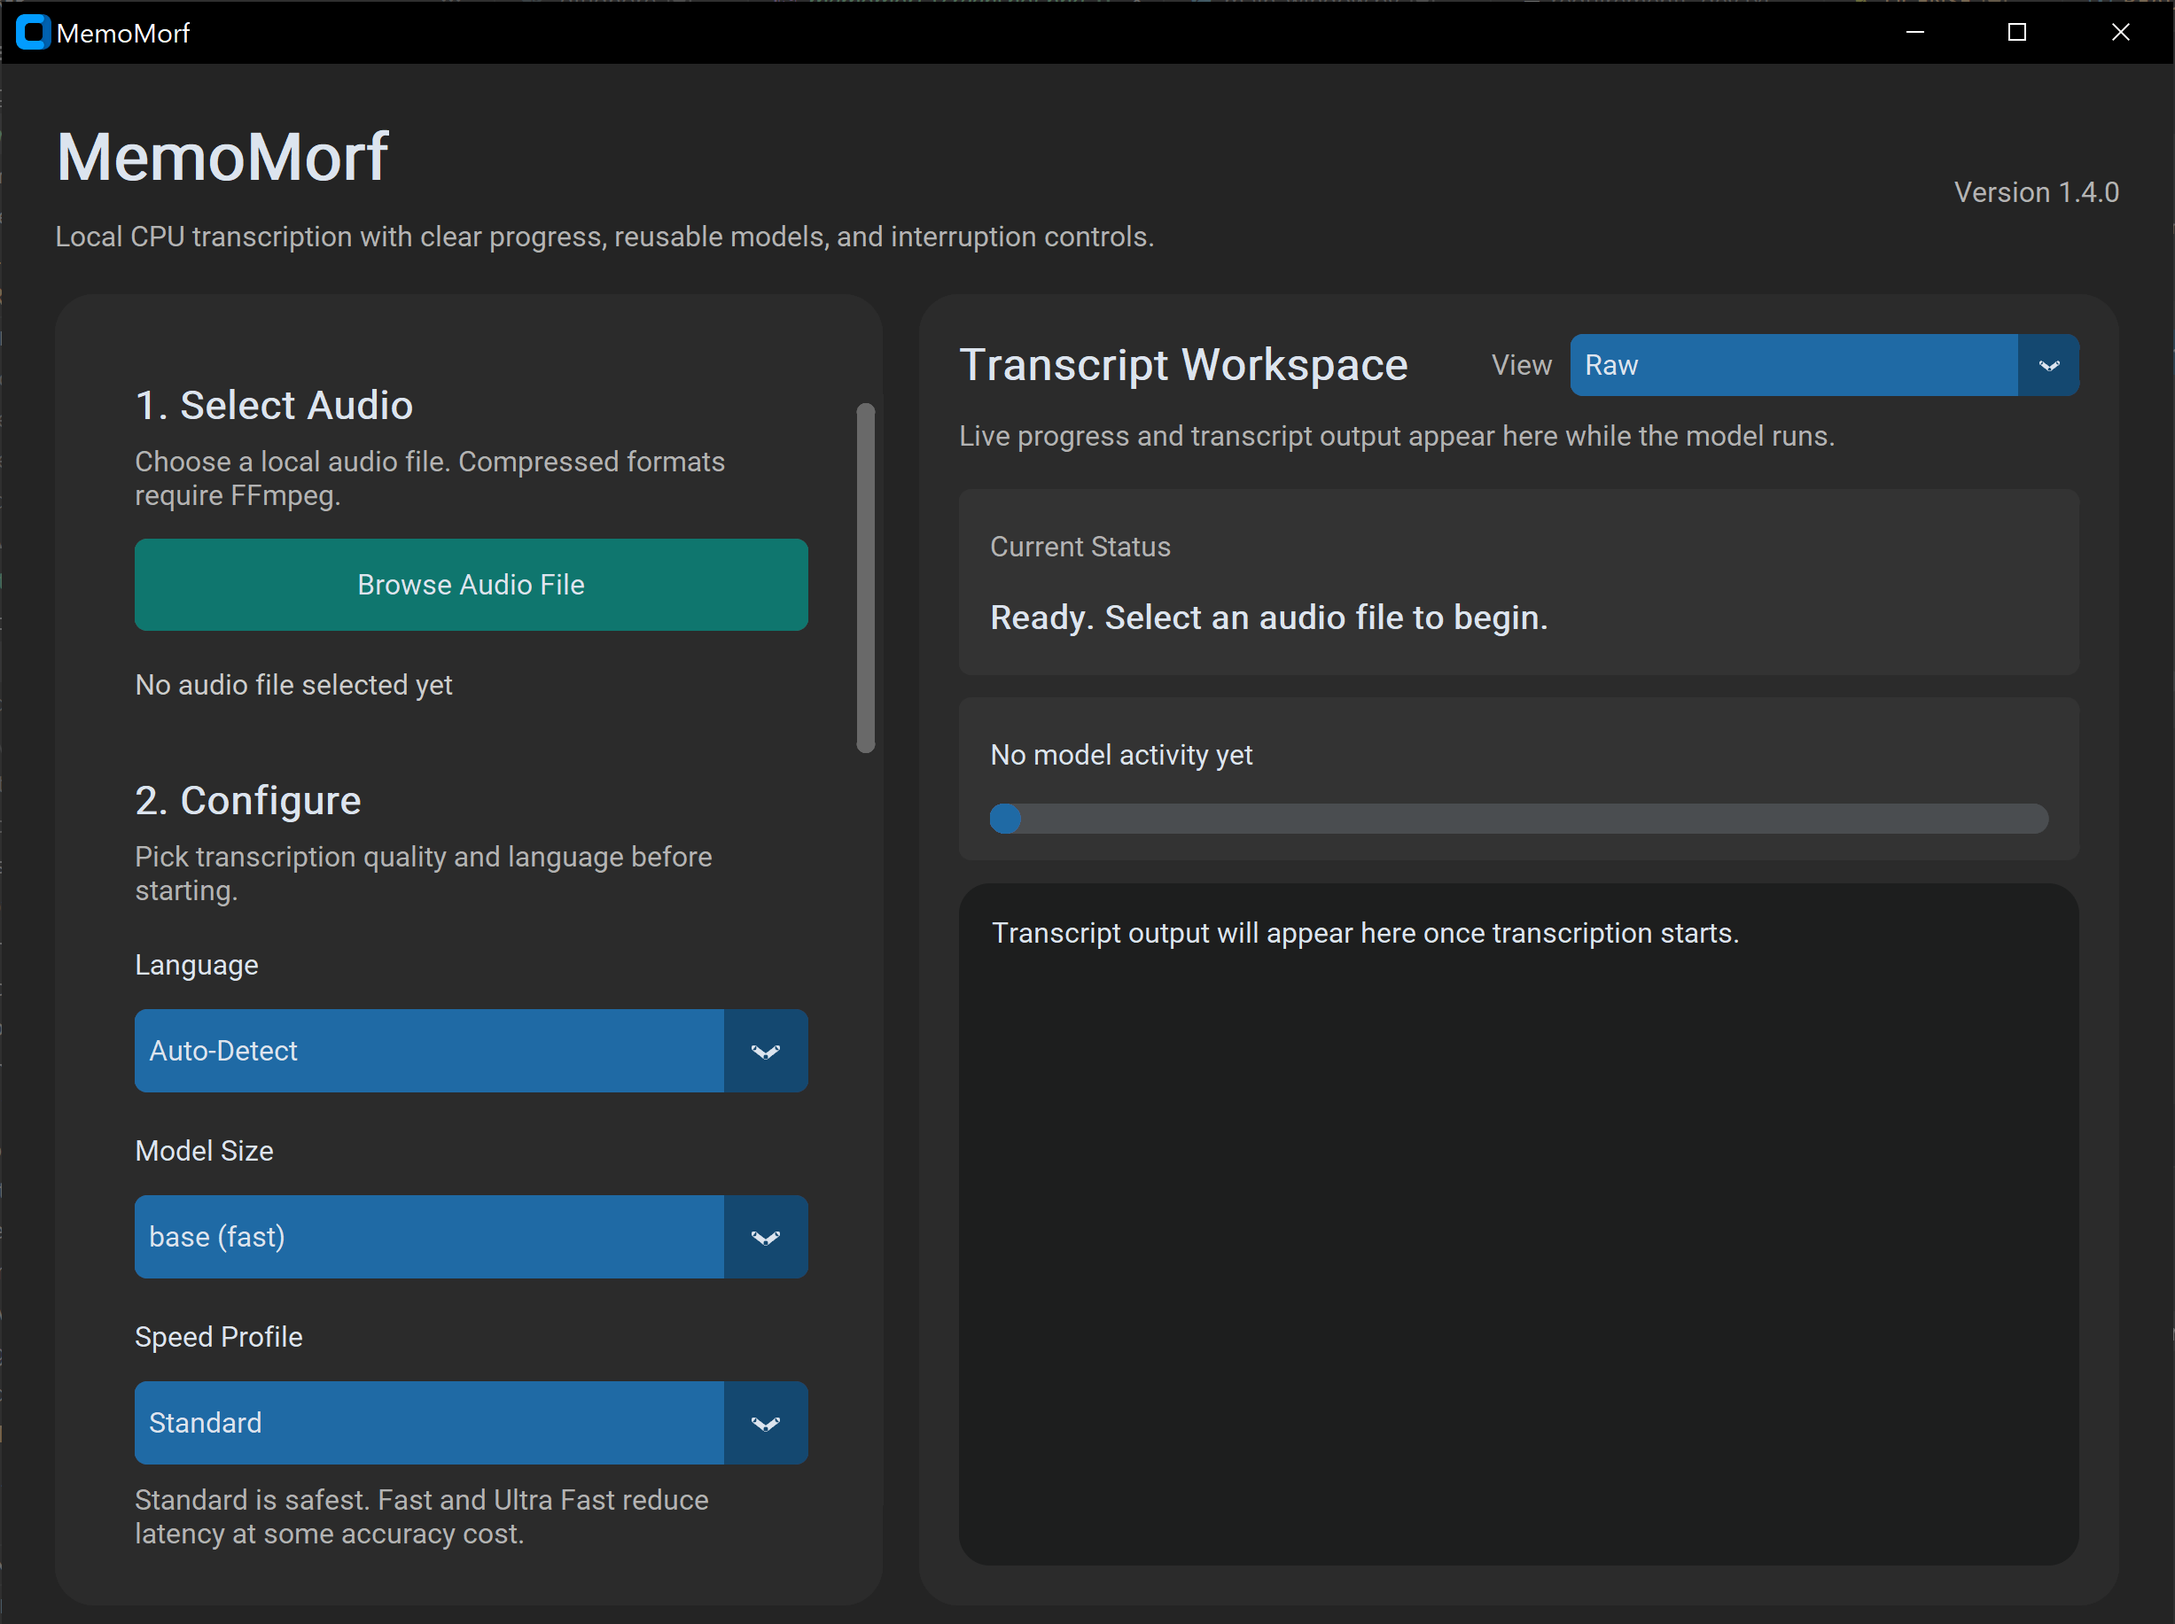
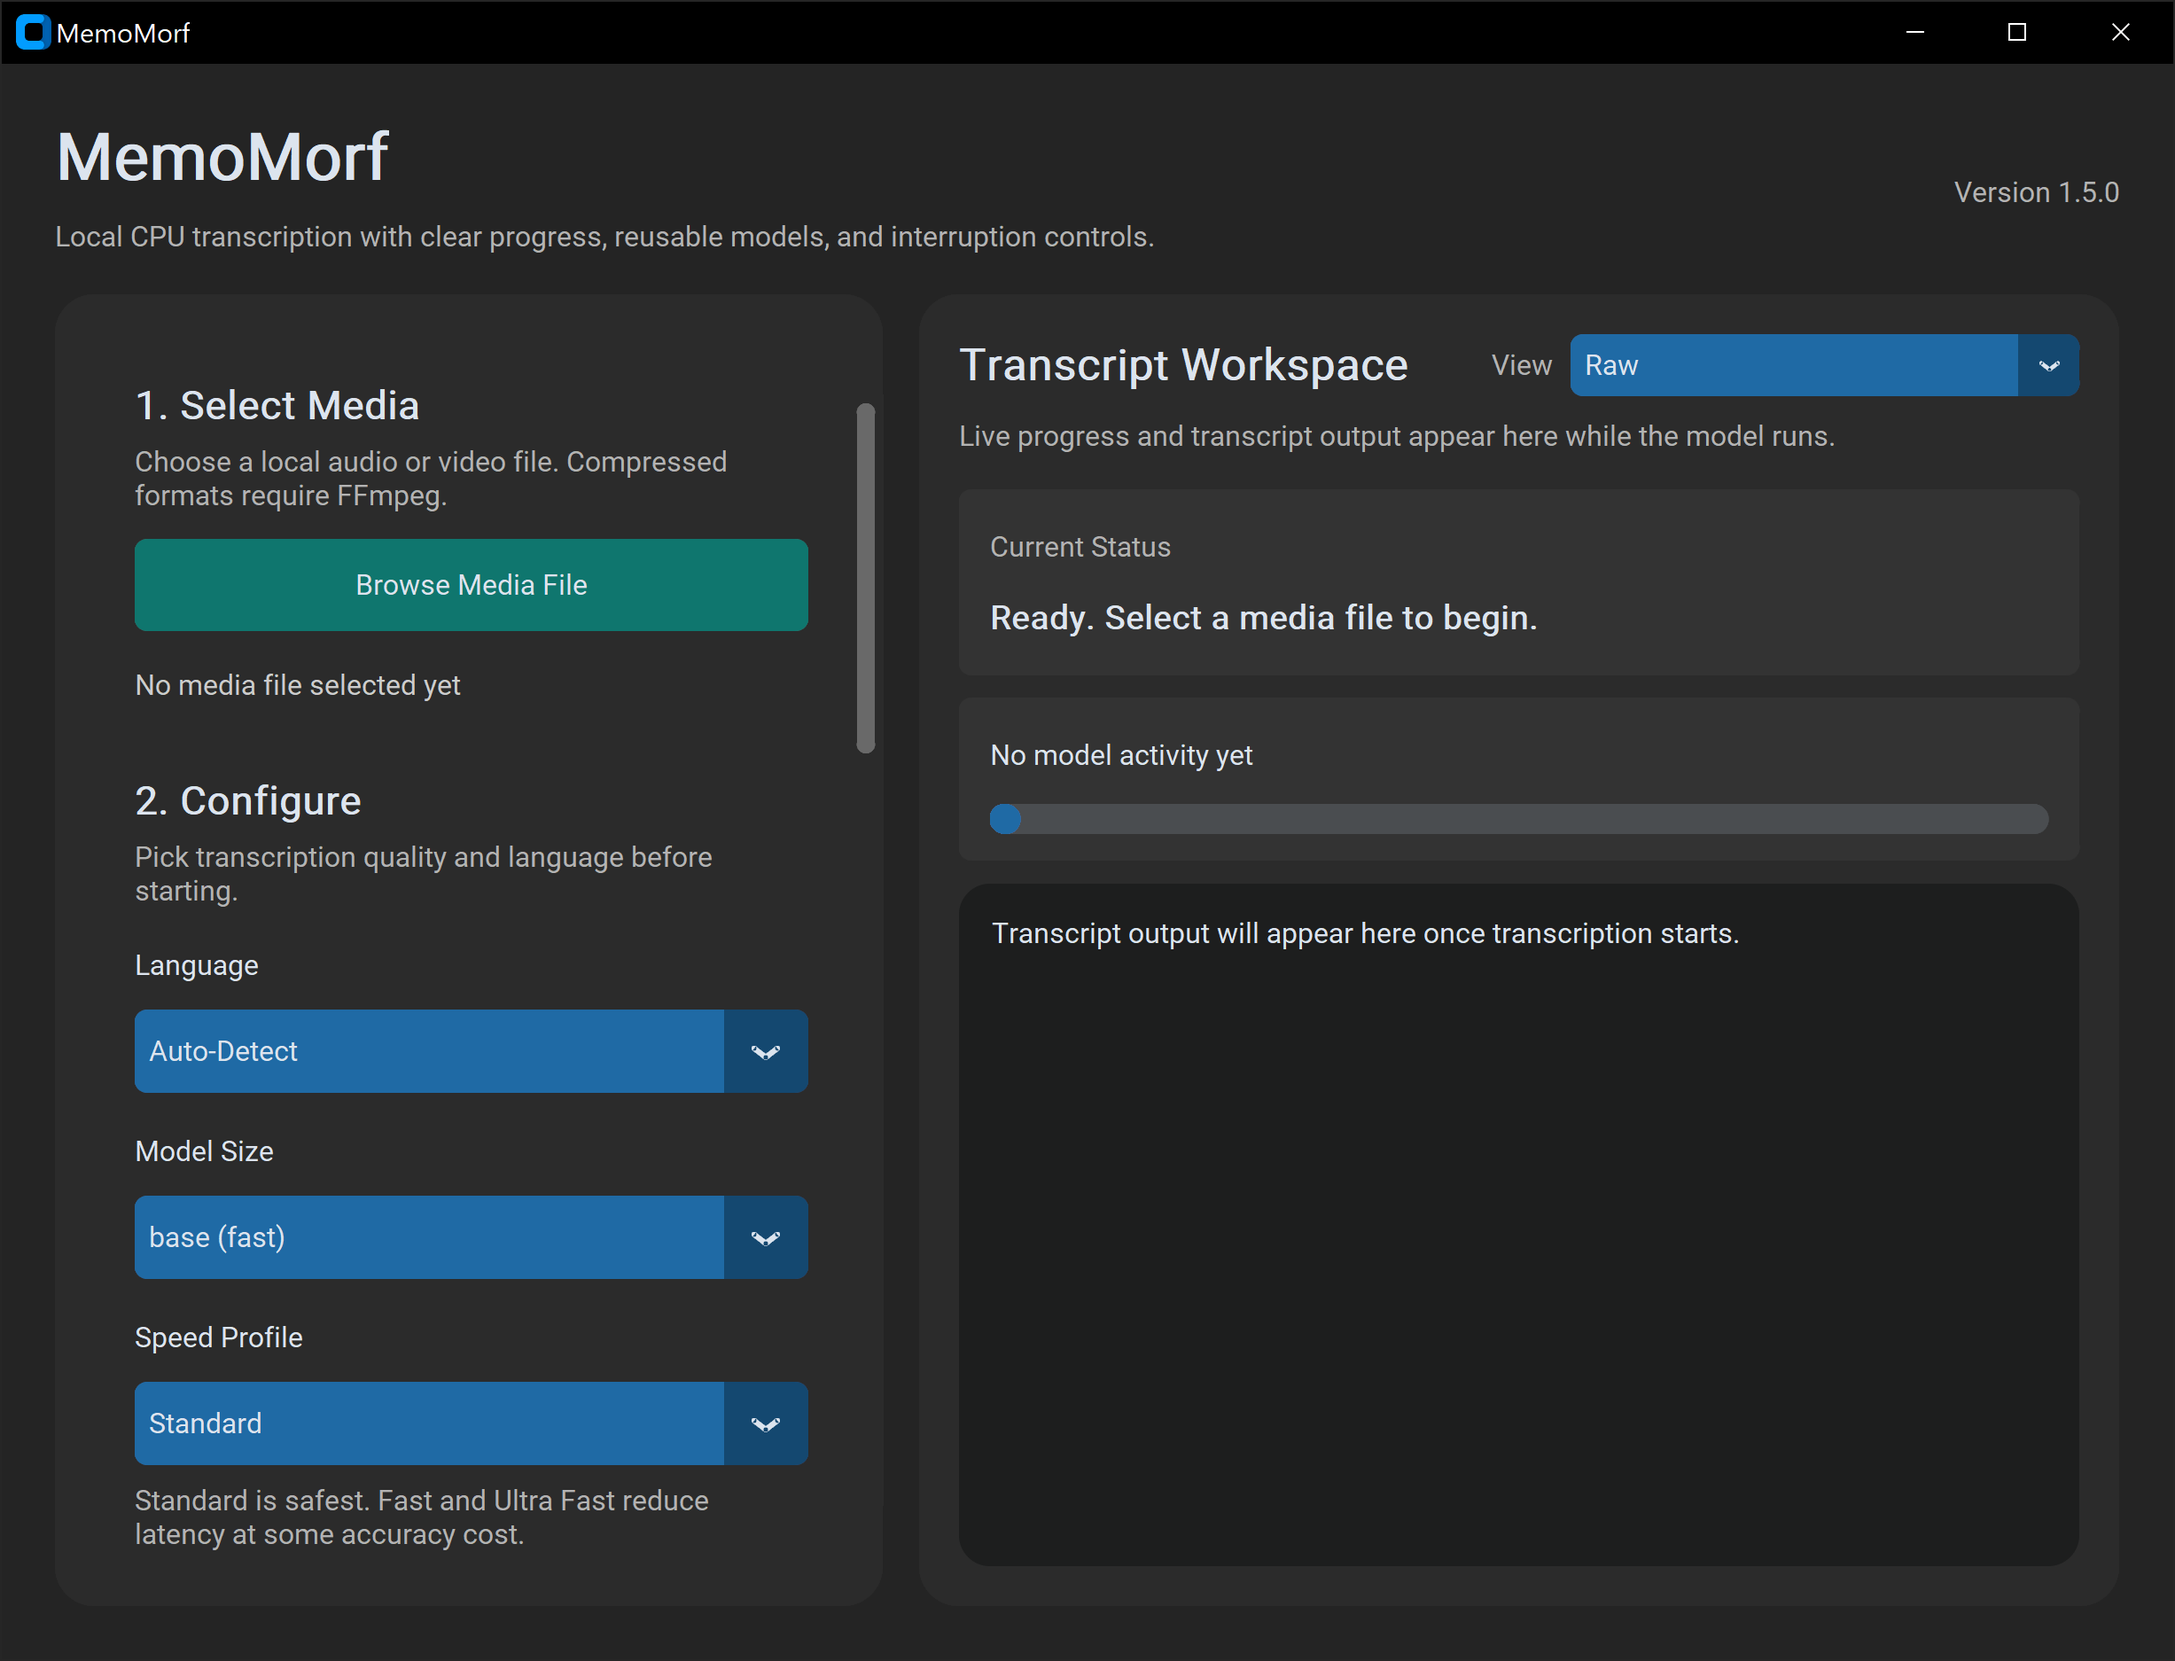
Add .mp4 support, rename package and entry point to MemoMorf, bump to 1.5.0

diff --git a/memomorf_app/main_window.py b/memomorf_app/main_window.py
@@ -24,8 +24,10 @@ from .constants import (
     APP_NAME,
     APP_VERSION,
     COMPRESSED_EXTENSIONS,
+    COMPRESSED_EXTENSIONS_LABEL,
     DEFAULT_TRANSCRIPT_VIEW_MODE,
     LANGUAGE_MAP,
+    LEGACY_SETTINGS_FILE,
     MODEL_CACHE_DIR,
     MODEL_DISPLAY_NAMES,
     MODEL_DISPLAY_ORDER,
@@ -34,6 +36,7 @@ from .constants import (
     MODEL_UI_LABELS,
     SETTINGS_FILE,
     SUPPORTED_EXTENSIONS,
+    SUPPORTED_FILE_DIALOG_PATTERN,
     TRANSCRIPT_VIEW_MODES,
     TRANSCRIPTION_PRESETS,
 )
@@ -100,7 +103,7 @@ class MemoMorfApp(ctk.CTk):
             display_names=MODEL_DISPLAY_NAMES,
             display_order=MODEL_DISPLAY_ORDER,
         )
-        self.settings_manager = SettingsManager(SETTINGS_FILE)
+        self.settings_manager = SettingsManager(SETTINGS_FILE, LEGACY_SETTINGS_FILE)
 
         self.selected_file: Path | None = None
         self.transcript_segments: list[TranscriptSegment] = []
@@ -133,14 +136,14 @@ class MemoMorfApp(ctk.CTk):
         self.transcript_view_var = ctk.StringVar(value=DEFAULT_TRANSCRIPT_VIEW_MODE)
         self.clip_start_var = ctk.StringVar(value="")
         self.clip_end_var = ctk.StringVar(value="")
-        self.status_var = ctk.StringVar(value="Ready. Select an audio file to begin.")
-        self.file_var = ctk.StringVar(value="No audio file selected yet")
+        self.status_var = ctk.StringVar(value="Ready. Select a media file to begin.")
+        self.file_var = ctk.StringVar(value="No media file selected yet")
         self.download_var = ctk.StringVar(value="No model activity yet")
         self.version_var = ctk.StringVar(value=f"Version {APP_VERSION}")
         self.selected_downloaded_model_var = ctk.StringVar(value="")
-        self.audio_duration_var = ctk.StringVar(value="Duration: No audio loaded")
+        self.audio_duration_var = ctk.StringVar(value="Duration: No media loaded")
         self.clip_selection_var = ctk.StringVar(value="Selected clip: Full file")
-        self.readiness_var = ctk.StringVar(value="Ready check: Select an audio file.")
+        self.readiness_var = ctk.StringVar(value="Ready check: Select a media file.")
 
         self._build_ui()
         self._load_settings()
@@ -204,14 +207,14 @@ class MemoMorfApp(ctk.CTk):
 
         source_title = ctk.CTkLabel(
             source_frame,
-            text="1. Select Audio",
+            text="1. Select Media",
             font=ctk.CTkFont(size=18, weight="bold"),
         )
         source_title.grid(row=0, column=0, sticky="w")
 
         source_hint = ctk.CTkLabel(
             source_frame,
-            text="Choose a local audio file. Compressed formats require FFmpeg.",
+            text="Choose a local audio or video file. Compressed formats require FFmpeg.",
             anchor="w",
             justify="left",
             wraplength=280,
@@ -221,7 +224,7 @@ class MemoMorfApp(ctk.CTk):
 
         browse_button = ctk.CTkButton(
             source_frame,
-            text="Browse Audio File",
+            text="Browse Media File",
             command=self.browse_file,
             height=42,
             fg_color="#0f766e",
@@ -645,10 +648,10 @@ class MemoMorfApp(ctk.CTk):
 
     def browse_file(self) -> None:
         file_path = filedialog.askopenfilename(
-            title="Select an audio file",
+            title="Select an audio or video file",
             filetypes=[(
-                "Supported audio files",
-                "*.m4a *.mp3 *.wav *.aac *.3gp",
+                "Supported media files",
+                SUPPORTED_FILE_DIALOG_PATTERN,
             )],
         )
         if not file_path:
@@ -671,7 +674,7 @@ class MemoMorfApp(ctk.CTk):
             return
 
         if self.selected_file is None:
-            self.status_var.set("Please select an audio file first.")
+            self.status_var.set("Please select a media file first.")
             return
 
         if self.selected_file.suffix.lower() not in SUPPORTED_EXTENSIONS:
@@ -679,9 +682,9 @@ class MemoMorfApp(ctk.CTk):
             return
 
         if self._requires_ffmpeg(self.selected_file):
-            self.status_var.set("FFmpeg not found for compressed audio input.")
+            self.status_var.set("FFmpeg not found for compressed media input.")
             self._show_ffmpeg_guidance(
-                "FFmpeg is required for this audio format on this machine.\n\n"
+                "FFmpeg is required for this media format on this machine.\n\n"
                 f"Selected file: {self.selected_file.name}\n\n"
                 "Install it with:\n"
                 "winget install Gyan.FFmpeg\n\n"
@@ -894,7 +897,7 @@ class MemoMorfApp(ctk.CTk):
         if self.selected_file is None:
             self.audio_duration_seconds = None
             self.audio_waveform_points = []
-            self.audio_duration_var.set("Duration: No audio loaded")
+            self.audio_duration_var.set("Duration: No media loaded")
             self._configure_clip_selector()
             return
 
@@ -1025,14 +1028,14 @@ class MemoMorfApp(ctk.CTk):
     def set_last_five_minutes_clip(self) -> None:
         duration = self.audio_duration_seconds
         if duration is None:
-            self.clip_selection_var.set("Selected clip: Load an audio file first")
+            self.clip_selection_var.set("Selected clip: Load a media file first")
             return
         self._set_preset_clip(max(0.0, duration - 300.0), duration)
 
     def set_current_30_second_clip(self) -> None:
         duration = self.audio_duration_seconds
         if duration is None:
-            self.clip_selection_var.set("Selected clip: Load an audio file first")
+            self.clip_selection_var.set("Selected clip: Load a media file first")
             return
 
         try:
@@ -1054,7 +1057,7 @@ class MemoMorfApp(ctk.CTk):
 
     def _set_preset_clip(self, start_seconds: float, end_seconds: float) -> None:
         if self.audio_duration_seconds is None:
-            self.clip_selection_var.set("Selected clip: Load an audio file first")
+            self.clip_selection_var.set("Selected clip: Load a media file first")
             return
         self._set_clip_values(start_seconds, end_seconds)
 
@@ -1066,7 +1069,7 @@ class MemoMorfApp(ctk.CTk):
             return
 
         if self.selected_file is None:
-            self.status_var.set("Select an audio file before previewing a clip.")
+            self.status_var.set("Select a media file before previewing a clip.")
             return
 
         clip_range = self._get_clip_range()
@@ -1114,14 +1117,14 @@ class MemoMorfApp(ctk.CTk):
         issues: list[str] = []
 
         if self.selected_file is None:
-            issues.append("Select an audio file.")
+            issues.append("Select a media file.")
             return issues
 
         if self.selected_file.suffix.lower() not in SUPPORTED_EXTENSIONS:
-            issues.append("Select a supported audio file type.")
+            issues.append("Select a supported media file type.")
 
         if self._requires_ffmpeg(self.selected_file):
-            issues.append("Install FFmpeg for compressed audio input on this machine.")
+            issues.append("Install FFmpeg for compressed media input on this machine.")
 
         try:
             self._get_clip_range()
@@ -1433,7 +1436,7 @@ class MemoMorfApp(ctk.CTk):
         self._save_settings()
         self._show_ffmpeg_guidance(
             "FFmpeg was not found on this computer.\n\n"
-            "Compressed formats such as .m4a, .mp3, .aac, and .3gp may fail without it.\n\n"
+            f"Compressed formats such as {COMPRESSED_EXTENSIONS_LABEL} may fail without it.\n\n"
             "Recommended Windows fix:\n"
             "1. Open PowerShell\n"
             "2. Run: winget install Gyan.FFmpeg\n"

diff --git a/memomorf_app/settings.py b/memomorf_app/settings.py
@@ -18,15 +18,19 @@ DEFAULT_SETTINGS = {
 
 
 class SettingsManager:
-    def __init__(self, file_path: Path) -> None:
+    def __init__(self, file_path: Path, legacy_file_path: Path | None = None) -> None:
         self.file_path = file_path
+        self.legacy_file_path = legacy_file_path
 
     def load(self) -> dict[str, Any]:
-        if not self.file_path.exists():
+        source = self.file_path
+        if not source.exists():
+            source = self._find_legacy_settings_file()
+        if source is None:
             return DEFAULT_SETTINGS.copy()
 
         try:
-            settings = json.loads(self.file_path.read_text(encoding="utf-8"))
+            settings = json.loads(source.read_text(encoding="utf-8"))
         except (OSError, json.JSONDecodeError):
             return DEFAULT_SETTINGS.copy()
 
@@ -35,6 +39,12 @@ class SettingsManager:
             if key in settings:
                 merged[key] = settings[key]
         return merged
+
+    def _find_legacy_settings_file(self) -> Path | None:
+        """Return the pre-rename settings file when it is the only one present."""
+        if self.legacy_file_path is not None and self.legacy_file_path.exists():
+            return self.legacy_file_path
+        return None
 
     def save(self, settings: dict[str, Any]) -> None:
         payload = DEFAULT_SETTINGS.copy()

diff --git a/memomorf_app/constants.py b/memomorf_app/constants.py
@@ -4,10 +4,11 @@ from pathlib import Path
 
 
 APP_NAME = "MemoMorf"
-APP_VERSION = "1.4.0"
+APP_VERSION = "1.5.0"
 APP_DIR = Path(__file__).resolve().parent.parent
 MODEL_CACHE_DIR = APP_DIR / ".models"
-SETTINGS_FILE = APP_DIR / ".transcriber_settings.json"
+SETTINGS_FILE = APP_DIR / ".memomorf_settings.json"
+LEGACY_SETTINGS_FILE = APP_DIR / ".transcriber_settings.json"
 
 TRANSCRIPT_VIEW_MODES = (
     "Raw",
@@ -20,8 +21,10 @@ DEFAULT_TRANSCRIPT_VIEW_MODE = TRANSCRIPT_VIEW_MODES[0]
 PARAGRAPH_BREAK_SECONDS = 1.75
 SPEAKER_DIARIZATION_MODEL = "pyannote/speaker-diarization-community-1"
 
-SUPPORTED_EXTENSIONS = (".m4a", ".mp3", ".wav", ".aac", ".3gp")
-COMPRESSED_EXTENSIONS = {".m4a", ".mp3", ".aac", ".3gp"}
+SUPPORTED_EXTENSIONS = (".m4a", ".mp3", ".wav", ".aac", ".3gp", ".mp4")
+COMPRESSED_EXTENSIONS = {".m4a", ".mp3", ".aac", ".3gp", ".mp4"}
+SUPPORTED_FILE_DIALOG_PATTERN = " ".join(f"*{extension}" for extension in SUPPORTED_EXTENSIONS)
+COMPRESSED_EXTENSIONS_LABEL = ", ".join(sorted(COMPRESSED_EXTENSIONS))
 
 LANGUAGE_MAP = {
     "Auto-Detect": None,

diff --git a/memomorf.py b/memomorf.py
@@ -1,4 +1,4 @@
-from transcriber_app.main_window import MemoMorfApp
+from memomorf_app.main_window import MemoMorfApp
 
 
 if __name__ == "__main__":

diff --git a/README.md b/README.md
@@ -2,7 +2,7 @@
 
 # MemoMorf
 
-Local-first desktop audio transcription with clip selection, model caching, and optional speaker diarization.
+Local-first desktop audio and video transcription with clip selection, model caching, and optional speaker diarization.
 
 ![Python 3.10+](https://img.shields.io/badge/Python-3.10%2B-3776AB?style=flat-square&logo=python&logoColor=white)
 ![Windows](https://img.shields.io/badge/Platform-Windows-0078D6?style=flat-square&logo=windows&logoColor=white)
@@ -21,7 +21,7 @@ Built with CustomTkinter, faster-whisper, and optional pyannote speaker diarizat
 
 | Focus | What you get |
 | --- | --- |
-| Local workflow | Transcribe audio on your machine without a hosted transcription service |
+| Local workflow | Transcribe audio and video on your machine without a hosted transcription service |
 | CPU friendly | Uses `compute_type="int8"` for practical CPU inference |
 | Better control | Pause, resume, stop, preview clips, and transcribe only the range you need |
 | Reusable models | Keep downloaded models in a local `.models` cache and manage them from the UI |
@@ -40,7 +40,7 @@ Built with CustomTkinter, faster-whisper, and optional pyannote speaker diarizat
 
 ```mermaid
 flowchart LR
-	A[Choose audio file] --> B[Set language, model, and speed]
+	A[Choose audio or video file] --> B[Set language, model, and speed]
 	B --> C[Optionally trim to a clip range]
 	C --> D[Run transcription locally]
 	D --> E[Review raw or paragraph transcript]
@@ -54,7 +54,7 @@ flowchart LR
 
 ```mermaid
 flowchart TB
-	UI[CustomTkinter desktop UI] --> AUDIO[Audio loading and clip selection]
+	UI[CustomTkinter desktop UI] --> AUDIO[Media loading and clip selection]
 	UI --> WHISPER[faster-whisper transcription]
 	UI --> CACHE[Local model cache manager]
 	UI --> SETTINGS[Local settings file]
@@ -101,7 +101,7 @@ Launch the app:
 
 ```powershell
 .\.venv\Scripts\Activate.ps1
-python .\local_audio_transcriber.py
+python .\memomorf.py
 ```
 
 ## Packaging
@@ -122,18 +122,20 @@ The packaged app is written to `dist\MemoMorf`.
 Run `dist\MemoMorf\MemoMorf.exe` after packaging.
 Do not launch the intermediate executable from the `build` folder.
 
-## Supported Audio Formats
+## Supported Media Formats
 
 - `.m4a`
 - `.mp3`
 - `.wav`
 - `.aac`
 - `.3gp`
+- `.mp4` (audio track of the video is transcribed)
 
 ## Storage And Caching
 
 - Whisper models are stored in the local `.models` folder
-- UI settings are stored in `.transcriber_settings.json`
+- UI settings are stored in `.memomorf_settings.json`
+- Settings from an older `.transcriber_settings.json` are adopted automatically on first run
 - Speaker diarization downloads its own Hugging Face cache on first use
 - The `Clear Model Cache` action removes local model data and forces a fresh download later
 
